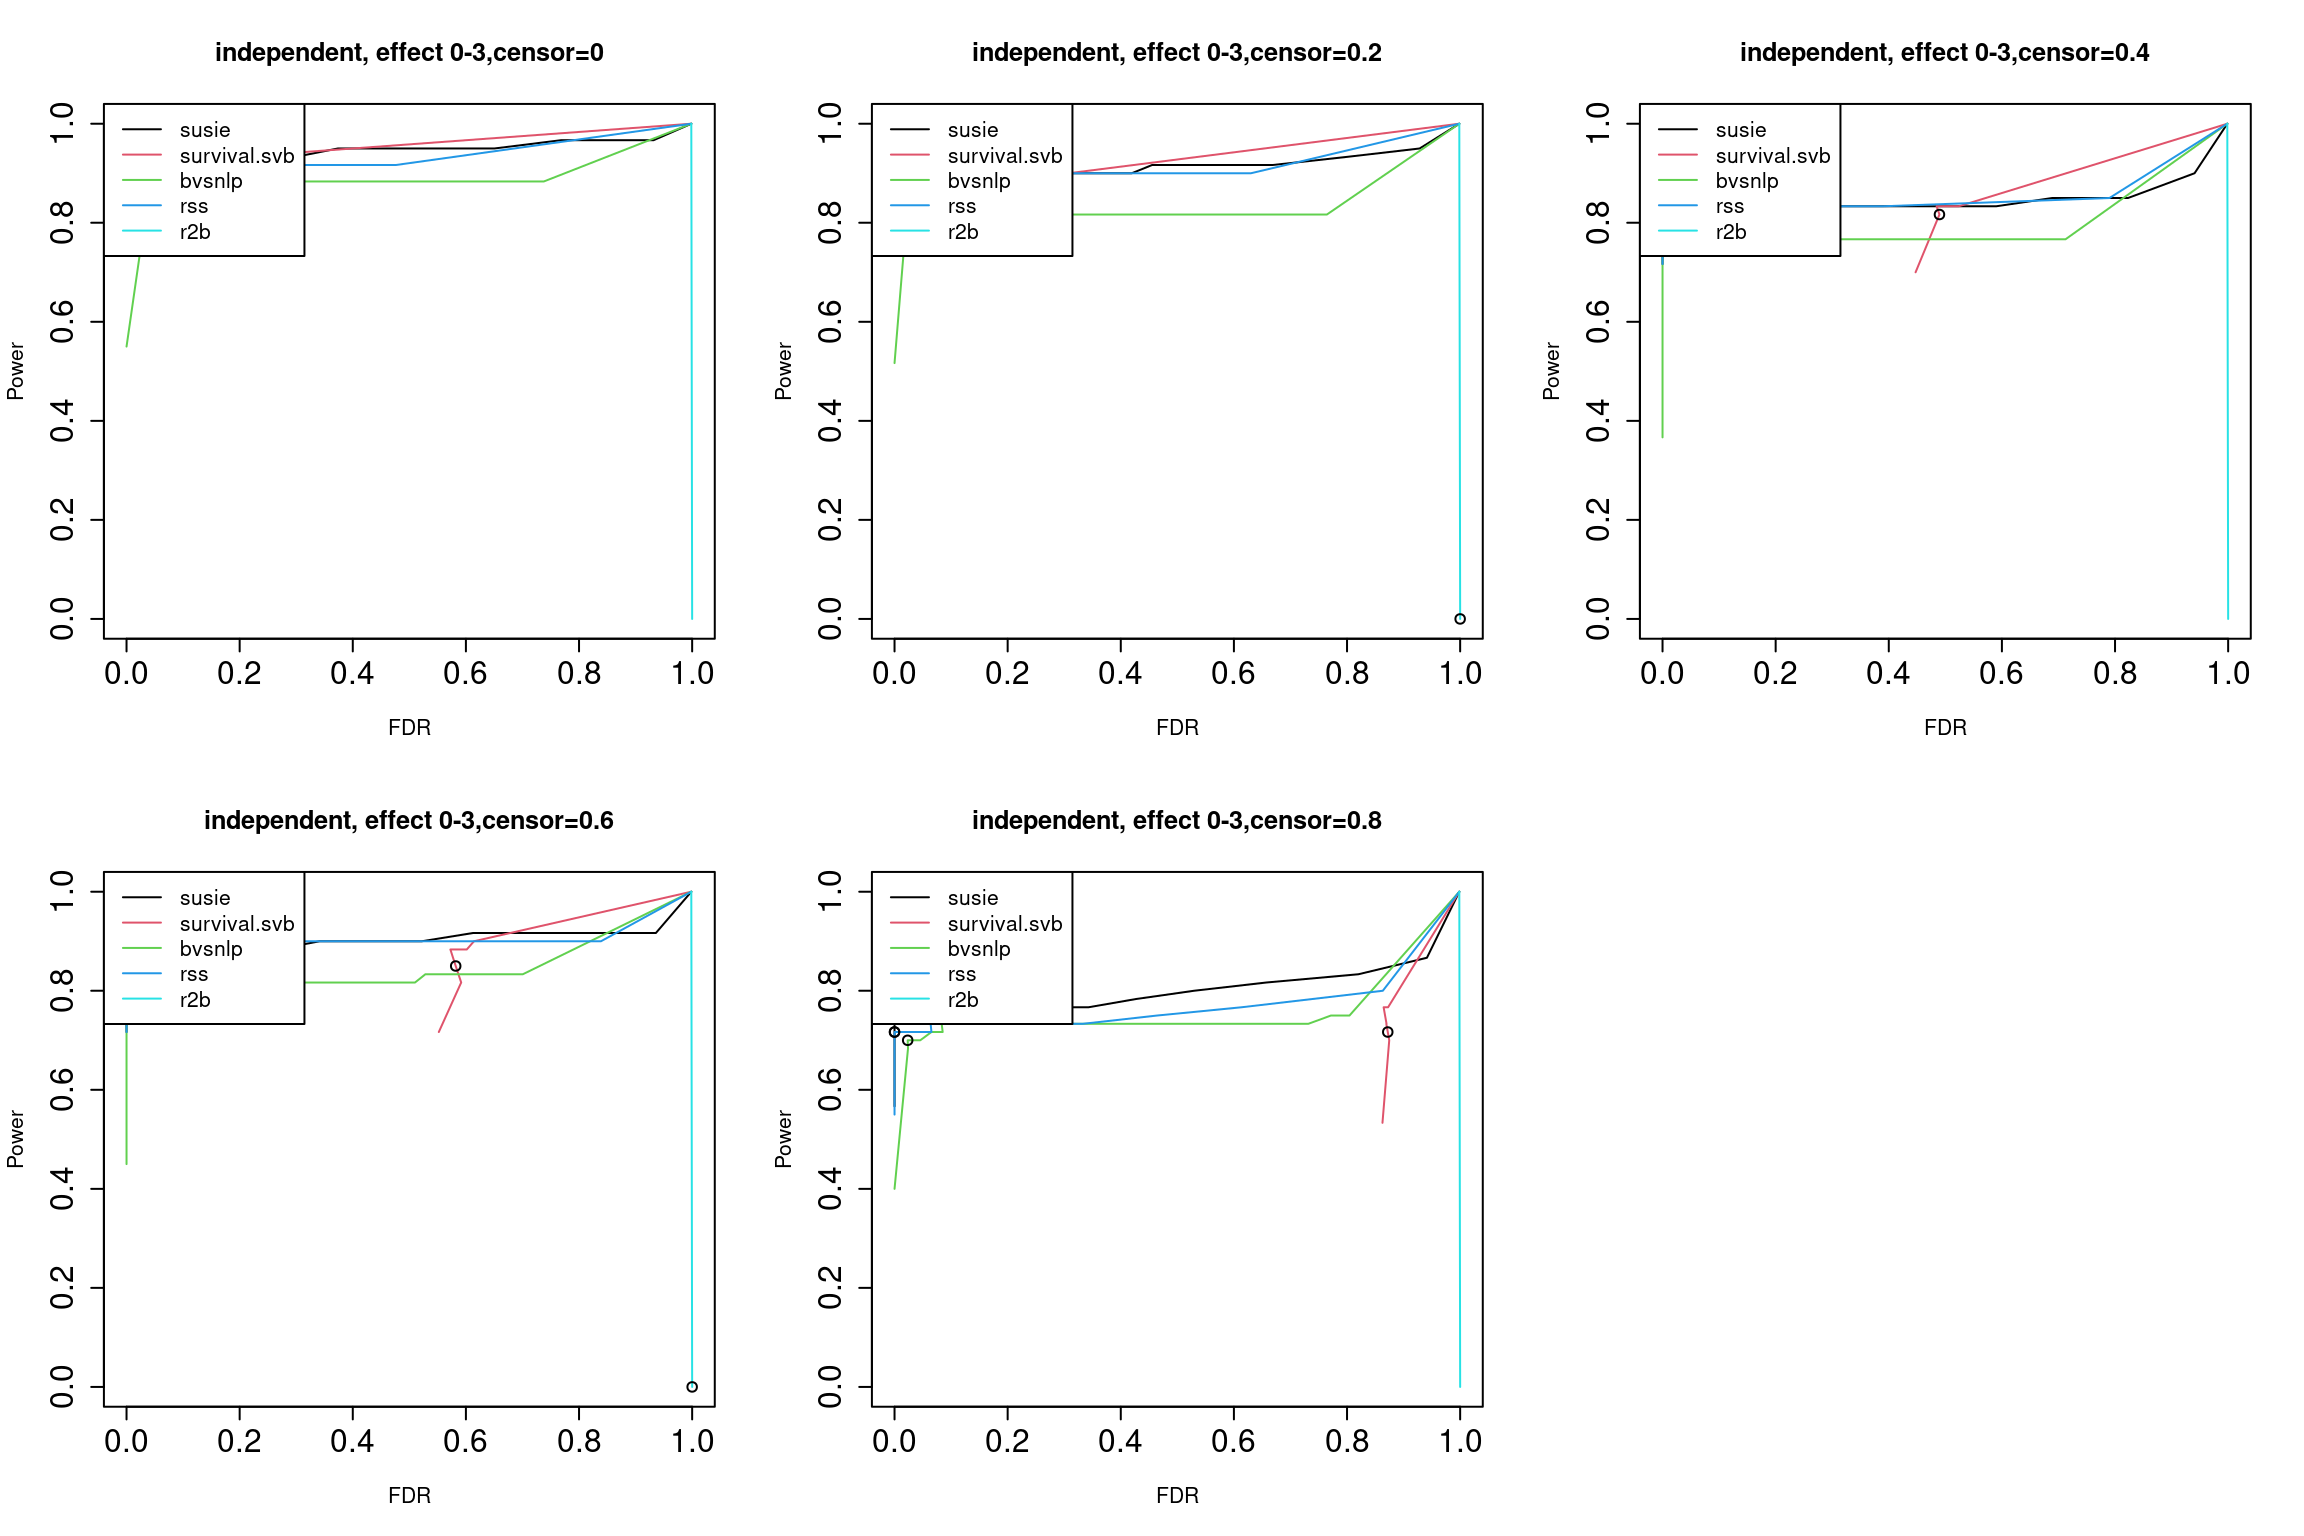
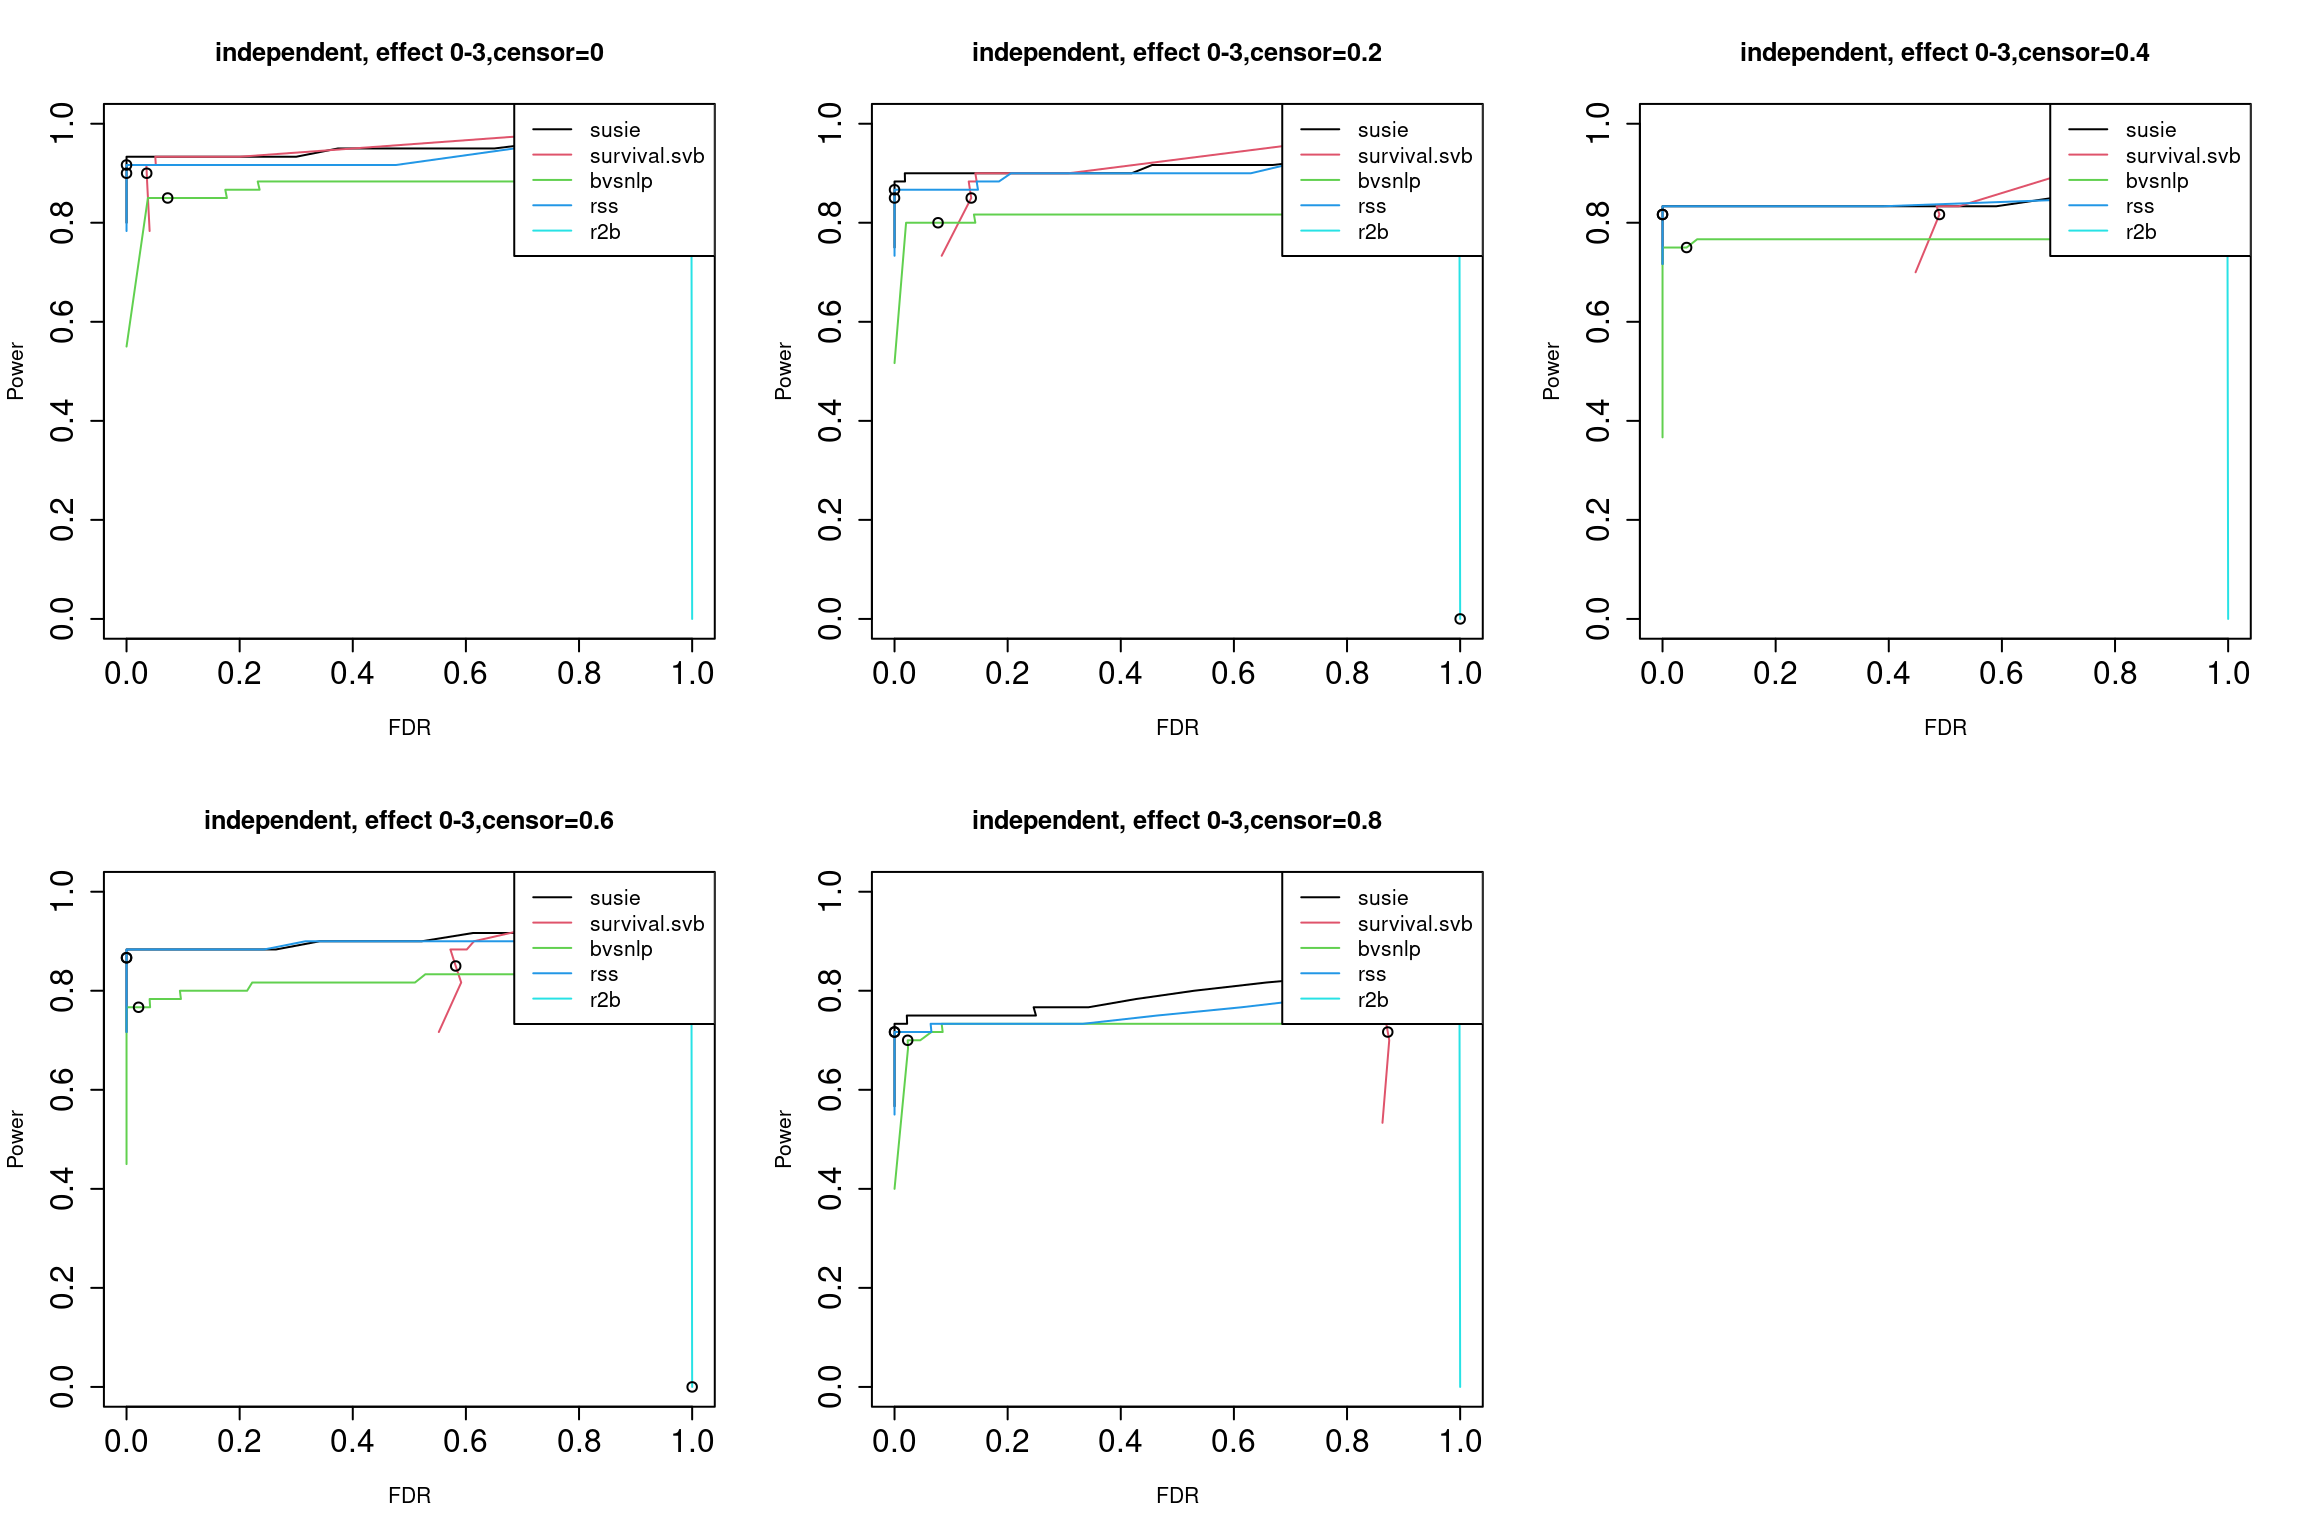
Build site.

diff --git a/docs/ukb_10iter.html b/docs/ukb_10iter.html
@@ -551,15 +551,15 @@ code/post_summary.R
 <div class="panel panel-default">
 <div class="panel-heading">
 <p class="panel-title">
-<a data-toggle="collapse" data-parent="#workflowr-checks" href="#strongRepositoryversionstrongahrefhttpsgithubcomyunqiyang0215survivalsusietreebc7ef5af056ea74134b12984e0b0585ad23add1dtargetblankbc7ef5aa">
+<a data-toggle="collapse" data-parent="#workflowr-checks" href="#strongRepositoryversionstrongahrefhttpsgithubcomyunqiyang0215survivalsusietree8e72d3d65b52274f5d9e5a1fedda270da6a7396atargetblank8e72d3da">
 <span class="glyphicon glyphicon-ok text-success"
 aria-hidden="true"></span> <strong>Repository version:</strong>
-<a href="https://github.com/yunqiyang0215/survival-susie/tree/bc7ef5af056ea74134b12984e0b0585ad23add1d" target="_blank">bc7ef5a</a>
+<a href="https://github.com/yunqiyang0215/survival-susie/tree/8e72d3d65b52274f5d9e5a1fedda270da6a7396a" target="_blank">8e72d3d</a>
 </a>
 </p>
 </div>
 <div
[2 lines of base64/hex data omitted]
 class="panel-collapse collapse">
 <div class="panel-body">
 <p>
@@ -569,7 +569,7 @@ reproducibility.
 </p>
 <p>
 The results in this page were generated with repository version
-<a href="https://github.com/yunqiyang0215/survival-susie/tree/bc7ef5af056ea74134b12984e0b0585ad23add1d" target="_blank">bc7ef5a</a>.
+<a href="https://github.com/yunqiyang0215/survival-susie/tree/8e72d3d65b52274f5d9e5a1fedda270da6a7396a" target="_blank">8e72d3d</a>.
 See the <em>Past versions</em> tab to see a history of the changes made
 to the R Markdown and HTML files.
 </p>
@@ -633,6 +633,40 @@ Message
 </tr>
 </thead>
 <tbody>
+<tr>
+<td>
+Rmd
+</td>
+<td>
+<a href="https://github.com/yunqiyang0215/survival-susie/blob/8e72d3d65b52274f5d9e5a1fedda270da6a7396a/analysis/ukb_10iter.Rmd" target="_blank">8e72d3d</a>
+</td>
+<td>
+yunqi yang
+</td>
+<td>
+2024-03-18
+</td>
+<td>
+wflow_publish("analysis/ukb_10iter.Rmd")
+</td>
+</tr>
+<tr>
+<td>
+html
+</td>
+<td>
+<a href="https://rawcdn.githack.com/yunqiyang0215/survival-susie/b14d6d2414b06b922ee4d2a76ca19db83a285be5/docs/ukb_10iter.html" target="_blank">b14d6d2</a>
+</td>
+<td>
+yunqi yang
+</td>
+<td>
+2024-03-18
+</td>
+<td>
+Build site.
+</td>
+</tr>
 <tr>
 <td>
 Rmd
@@ -814,7 +848,7 @@ for (i in 1:5){
   points(res.rss[96,2], res.rss[96, 1])
   points(res.r2b[96,2], res.r2b[96, 1])
   
-  legend(&quot;topleft&quot;, legend = c(&quot;susie&quot;, &quot;survival.svb&quot;, &quot;bvsnlp&quot;, &quot;rss&quot;, &quot;r2b&quot;), col = c(1,2,3,4,5), lty = 1)
+  legend(&quot;topright&quot;, legend = c(&quot;susie&quot;, &quot;survival.svb&quot;, &quot;bvsnlp&quot;, &quot;rss&quot;, &quot;r2b&quot;), col = c(1,2,3,4,5), lty = 1)
   
 }</code></pre>
 <p><img src="figure/ukb_10iter.Rmd/unnamed-chunk-4-1.png" width="1152" style="display: block; margin: auto;" /></p>
